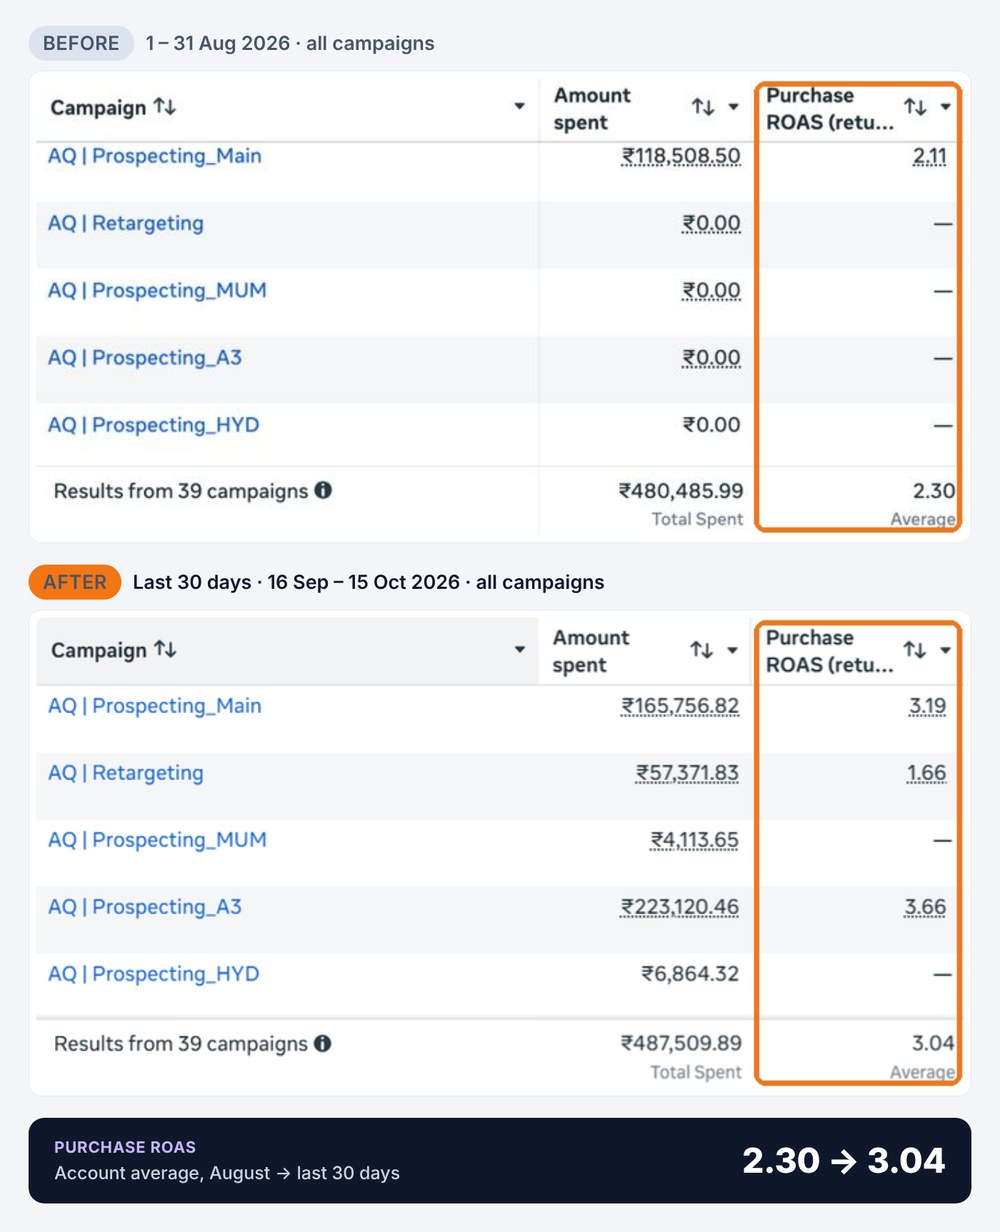
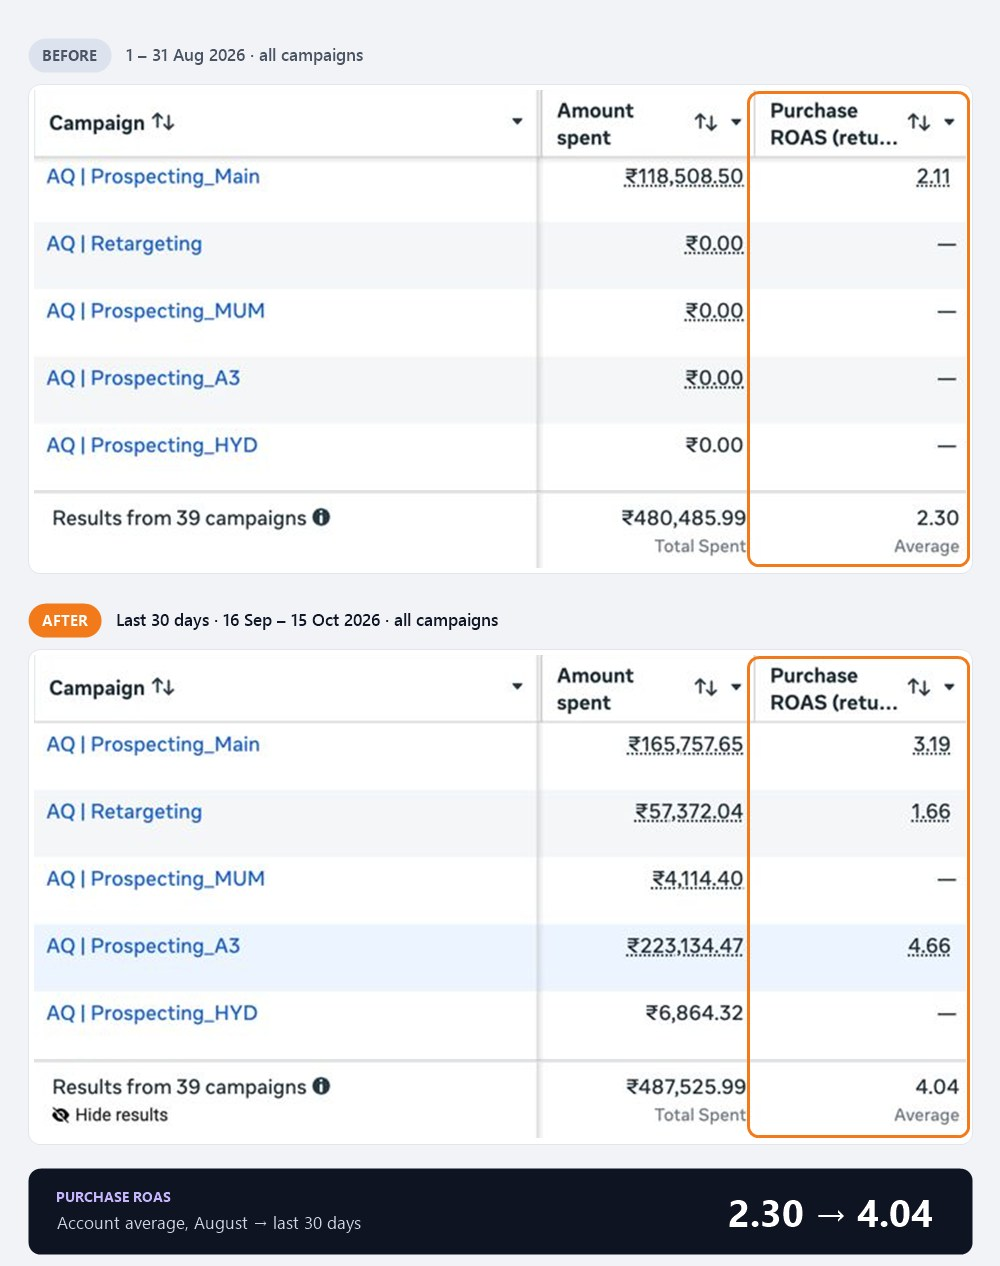
Ecommerce: update Gharaana ROAS to 2.30 → 4.04
Refresh the Meta Ads Manager before/after screenshot with the
16 Sep – 15 Oct 2026 numbers (account 4.04, Prospecting_A3 4.66)
and update the result, caption, alt text and facts to match.

diff --git a/app/ecommerce/markup.ts b/app/ecommerce/markup.ts
@@ -118,9 +118,9 @@ const markup = `
       <!-- Gharaana -->
       <article class="card case reveal">
         <div class="case-data">
-          <div class="k"><small>Result</small><b class="grad">2.30 → 3.04</b><span>Purchase ROAS, August vs last 30 days</span></div>
+          <div class="k"><small>Result</small><b class="grad">2.30 → 4.04</b><span>Purchase ROAS, August vs last 30 days</span></div>
           <div class="proofs">
-            <figure class="proof-shot ba-shot"><img src="/ecommerce/img/17-gharaana-meta-ads-manager-before-and-aft.jpg" alt="Gharaana Meta Ads Manager before and after: account average purchase ROAS 2.30 in August 2026, 3.04 in the last 30 days, all 39 campaigns" loading="lazy"><figcaption><b>Meta Ads Manager</b> Purchase ROAS 2.30 → 3.04</figcaption></figure>
+            <figure class="proof-shot ba-shot"><img src="/ecommerce/img/17-gharaana-meta-ads-manager-before-and-aft.jpg" alt="Gharaana Meta Ads Manager before and after: account average purchase ROAS 2.30 in August 2026, 4.04 in the last 30 days, all 39 campaigns" loading="lazy"><figcaption><b>Meta Ads Manager</b> Purchase ROAS 2.30 → 4.04</figcaption></figure>
             <figure class="proof-shot"><img src="/ecommerce/img/18-gharaana-shopify-10-6-lakh-total-sales-i.jpg" alt="Gharaana Shopify: ₹10.6 lakh total sales in the last 7 days, up 28%; sessions up 52%; orders up 30%" loading="lazy"><figcaption><b>Shopify</b> Last 7 days vs previous period</figcaption></figure>
             <p class="proof-hint">Tap a screenshot to enlarge</p>
           </div>
@@ -131,7 +131,7 @@ const markup = `
           <dl class="facts">
             <div><dt>Client</dt><dd>Gharaana, furniture ecommerce</dd></div>
             <div><dt>Starting point</dt><dd>2.30 account ROAS in August, after Andromeda flattened results</dd></div>
-            <div><dt>Last 30 days</dt><dd><b>ROAS 3.04 account-wide, 3.66 on Prospecting_A3.</b></dd></div>
+            <div><dt>Last 30 days</dt><dd><b>ROAS 4.04 account-wide, 4.66 on Prospecting_A3.</b></dd></div>
           </dl>
           <p class="story">Gharaana had a strong year on Meta until the Andromeda update flattened it. When they onboarded in May 2026, the founder was certain open targeting would fail. We ran the A3 Flywheel anyway: broad audiences inside one Prospecting CBO, a fresh creative Pack every week, and a creative engine built on market research, net-new concepts and iterations of proven winners. The right structure beat interest targeting.</p>
           <!-- QUOTE: Gharaana founder on switching to broad -->
